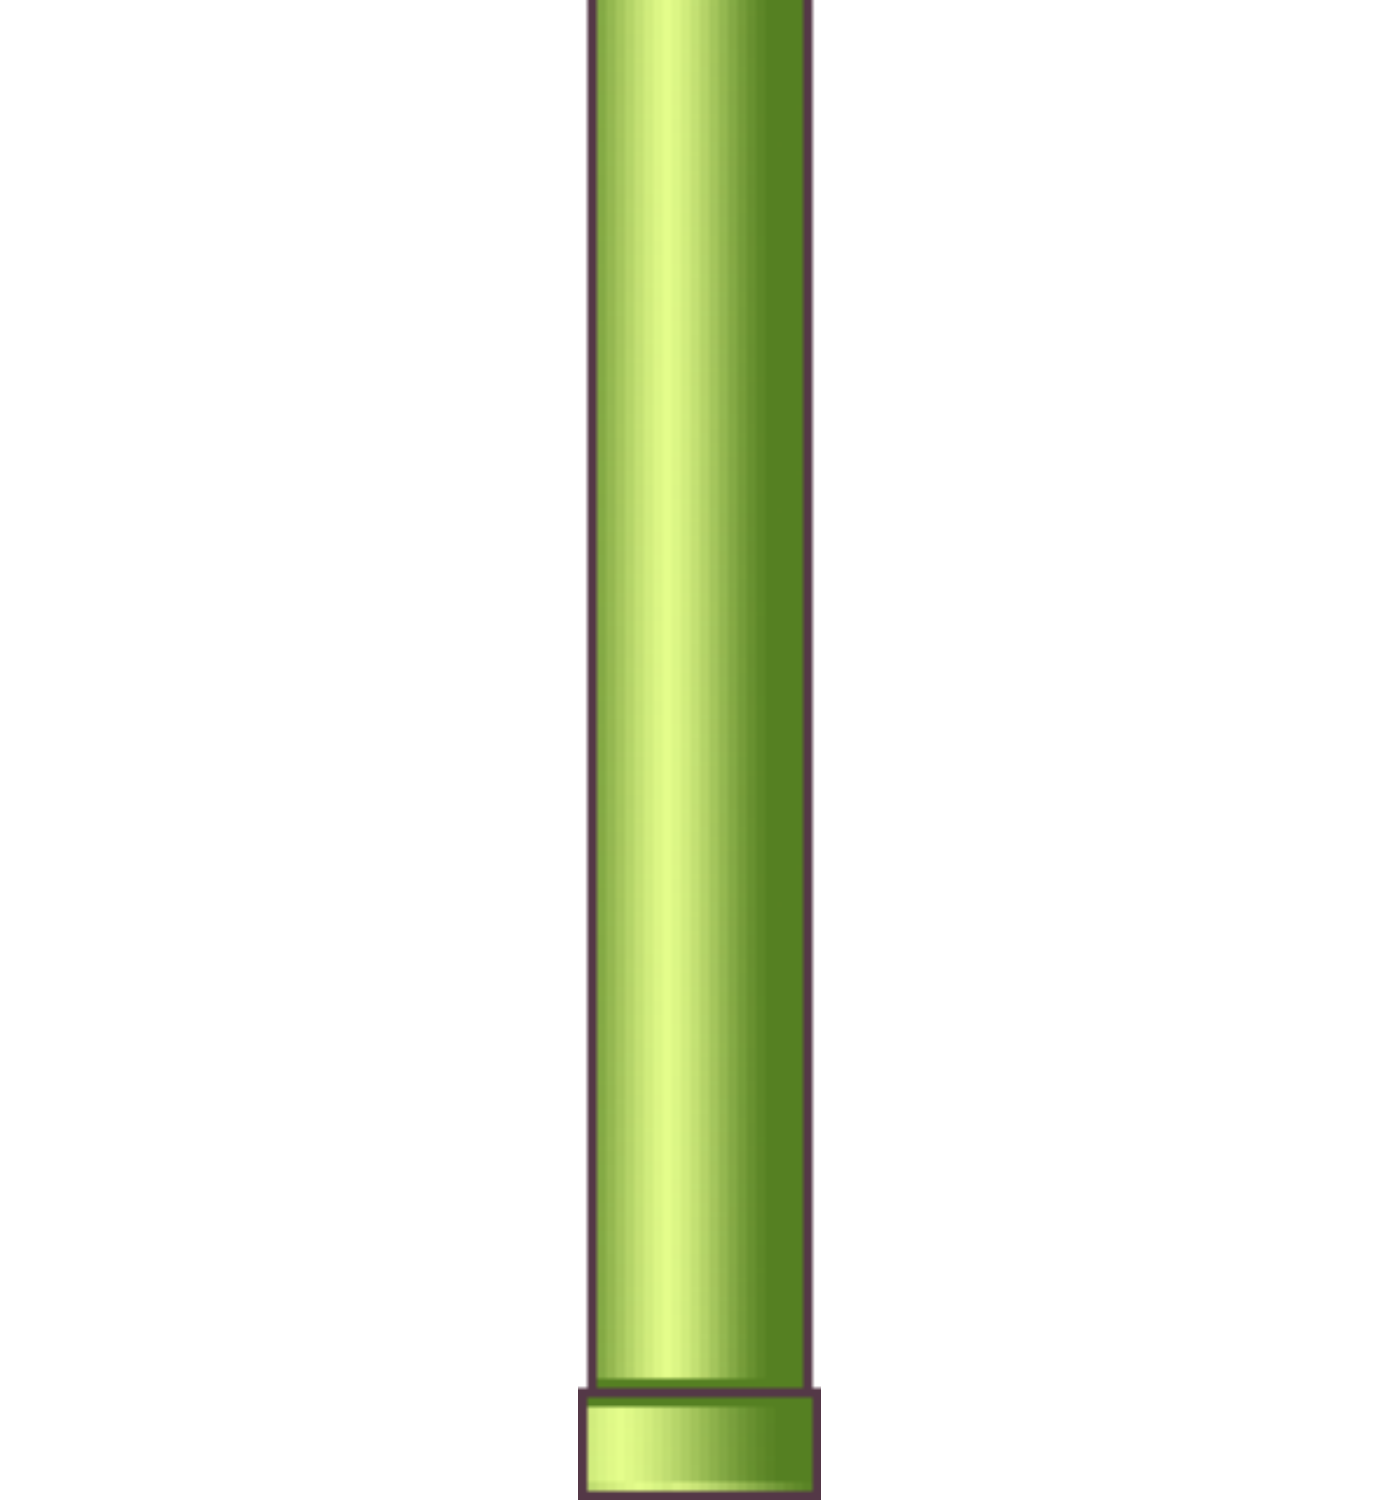
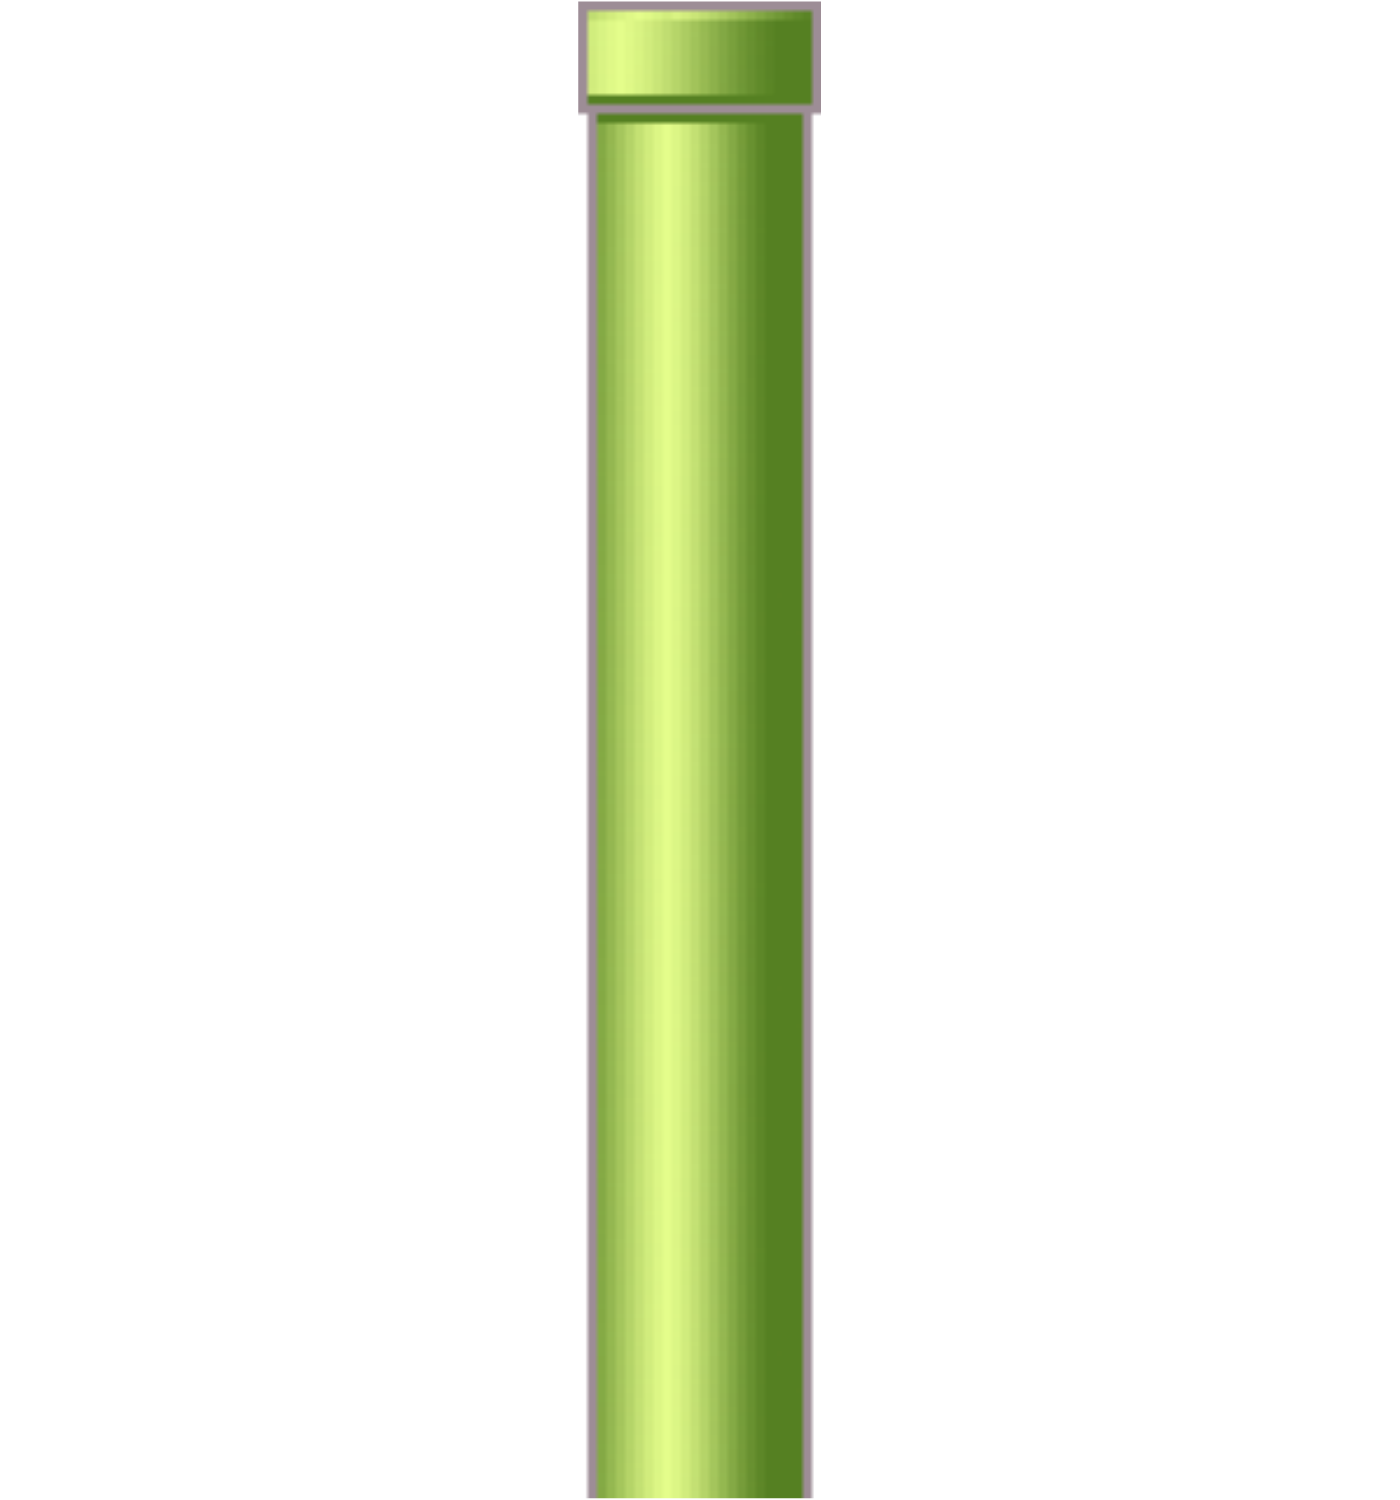
no double pipe

Changed region(s): [[0.3993, 0.0, 0.5836, 1.0]]

diff --git a/actors.ts b/actors.ts
@@ -34,34 +34,49 @@ class Bird extends Actor{
     
 }
 
-class Pipes extends Actor{
-    x2 : number;
-    y2 : number;
-    up : number;
+class upPipe extends Actor{
     imgup : HTMLImageElement;
-    imgdown : HTMLImageElement;
+    up : number;
 
-    constructor(x: number, y: number, x2: number, y2: number, up? : number){
+    constructor(x: number, y: number, up? : number){
         super(x, y)
-        this.x2 = x2;
-        this.y2 = y2 
         this.imgup = new Image()
         this.imgup.src = "images/pipeUp.jpg"
+        this.up = (Math.random()*200)+150
+    }
+
+    draw() : void {
+        ctx.drawImage(this.imgup, this.x, this.y, 300, this.up)
+    }
+
+    update(): void{
+        this.x-= 15
+    
+        if((this.x)  > canvas.width){
+            actorlist.removeActor(this);
+         }
+        }
+}
+
+class downPipe extends Actor{
+    imgdown : HTMLImageElement;
+    up : number;
+
+    constructor(x: number, y: number, up? : number){
+        super(x, y)
         this.imgdown = new Image()
         this.imgdown.src = "images/pipeDown.jpg"
         this.up = (Math.random()*200)+150
     }
 
     draw() : void {
-        ctx.drawImage(this.imgdown, this.x, this.y, 300, this.up)
-        ctx.drawImage(this.imgup, this.x2, this.y2, 300, this.up + 150 )
+        ctx.drawImage(this.imgdown, this.x, this.y, 300, this.up + 150 )
     }
 
     update(): void{
         this.x-= 15
-        this.x2-= 15
     
-        if((this.x && this.x2)  > canvas.width){
+        if((this.x)  > canvas.width){
             actorlist.removeActor(this);
          }
         }

diff --git a/actors.js b/actors.js
@@ -21,25 +21,36 @@ class Bird extends Actor {
         ctx.drawImage(this.img, canvas.width / 2 - 20, canvas.height / 2 - 35, 75, 75);
     }
 }
-class Pipes extends Actor {
-    constructor(x, y, x2, y2, up) {
+class upPipe extends Actor {
+    constructor(x, y, up) {
         super(x, y);
-        this.x2 = x2;
-        this.y2 = y2;
         this.imgup = new Image();
         this.imgup.src = "images/pipeUp.jpg";
+        this.up = (Math.random() * 200) + 150;
+    }
+    draw() {
+        ctx.drawImage(this.imgup, this.x, this.y, 300, this.up);
+    }
+    update() {
+        this.x -= 15;
+        if ((this.x) > canvas.width) {
+            actorlist.removeActor(this);
+        }
+    }
+}
+class downPipe extends Actor {
+    constructor(x, y, up) {
+        super(x, y);
         this.imgdown = new Image();
         this.imgdown.src = "images/pipeDown.jpg";
         this.up = (Math.random() * 200) + 150;
     }
     draw() {
-        ctx.drawImage(this.imgdown, this.x, this.y, 300, this.up);
-        ctx.drawImage(this.imgup, this.x2, this.y2, 300, this.up + 150);
+        ctx.drawImage(this.imgdown, this.x, this.y, 300, this.up + 150);
     }
     update() {
         this.x -= 15;
-        this.x2 -= 15;
-        if ((this.x && this.x2) > canvas.width) {
+        if ((this.x) > canvas.width) {
             actorlist.removeActor(this);
         }
     }

diff --git a/event_handlers.ts b/event_handlers.ts
@@ -2,11 +2,14 @@ let bird : Bird = new Bird( canvas.width / 2 , canvas.height / 2)
 window.addEventListener("load", function() {
     actorlist.addActor(bird);
 
-    let setpipe : Pipes = new Pipes(0,0, 0, 400)
-    actorlist.addActor(setpipe)
+    let uppipe : upPipe = new upPipe(400,0)
+    actorlist.addActor(uppipe)
+
+    let downpipe : downPipe = new downPipe(400,400)
+    actorlist.addActor(downpipe)
 });
 
 setInterval(function(){
-    actorlist.addActor(new Pipes(400, 0, 400, 400))
-    actorlist.addActor(new Pipes(400, 400, 400, 400))
+    actorlist.addActor(new upPipe(400, 0))
+    actorlist.addActor(new downPipe(400, 400))
 }, 1500)

diff --git a/event_handlers.js b/event_handlers.js
@@ -2,10 +2,12 @@
 let bird = new Bird(canvas.width / 2, canvas.height / 2);
 window.addEventListener("load", function () {
     actorlist.addActor(bird);
-    let setpipe = new Pipes(0, 0, 0, 400);
-    actorlist.addActor(setpipe);
+    let uppipe = new upPipe(400, 0);
+    actorlist.addActor(uppipe);
+    let downpipe = new downPipe(400, 400);
+    actorlist.addActor(downpipe);
 });
 setInterval(function () {
-    actorlist.addActor(new Pipes(400, 0, 400, 400));
-    actorlist.addActor(new Pipes(400, 400, 400, 400));
+    actorlist.addActor(new upPipe(400, 0));
+    actorlist.addActor(new downPipe(400, 400));
 }, 1500);
